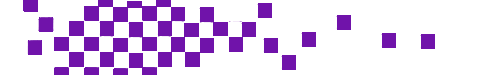
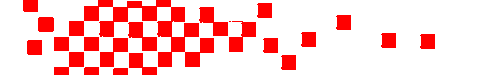
User themes

diff --git a/src/index.js b/src/index.js
@@ -1,4 +1,4 @@
-import React from "react";
+import React, { useEffect } from "react";
 import ReactDOM from "react-dom/client";
 import "./index.css";
 import {
@@ -14,8 +14,95 @@ import {
 } from "./containers";
 import Root from "./containers/Root";
 import { BrowserRouter, Routes, Route, Navigate } from "react-router-dom";
+import LoginMan from "./login_manager";
 
 export default function App() {
+
+  useEffect(() => {
+    (async () => {
+      function rgb2hsv(r, g, b) {
+        let v = Math.max(r, g, b), c = v - Math.min(r, g, b);
+        let h = c && ((v == r) ? (g - b) / c : ((v == g) ? 2 + (b - r) / c : 4 + (r - g) / c));
+        return [60 * (h < 0 ? h + 6 : h), v && c / v, v];
+      }
+
+      function rgb2hex(str) {
+        let r = 0
+        let g = 0
+        let b = 0
+        let a = 0
+
+        if (str.includes("rgba")) {
+          str = str.substr(5, str.length - 6)
+
+          const arr = str.split(", ")
+          r = parseInt(arr[0])
+          g = parseInt(arr[1])
+          b = parseInt(arr[2])
+          a = parseInt(arr[3])
+        } else if (str.includes("rgb")) {
+          str = str.substr(4, str.length - 5)
+
+          const arr = str.split(", ")
+          r = parseInt(arr[0])
+          g = parseInt(arr[1])
+          b = parseInt(arr[2])
+          a = 255
+        } else {
+          return "#00000000"
+        }
+
+        return "#" + (r < 16 ? "0" : "") + r.toString(16) + (g < 16 ? "0" : "") + g.toString(16) + (b < 16 ? "0" : "") + b.toString(16) + (a < 16 ? "0" : "") + a.toString(16)
+      }
+
+      function ChangeMenubarImg(FgColor) {
+        let r = parseInt(FgColor.substr(1, 2), 16)
+        let g = parseInt(FgColor.substr(3, 2), 16)
+        let b = parseInt(FgColor.substr(5, 2), 16)
+
+        let hsv = rgb2hsv(r / 255, g / 255, b / 255)
+        document.querySelector("#HeaderContent > img").style.filter = "hue-rotate(" + hsv[0] + "deg) brightness(" + hsv[1] * 100 + "%) saturate(" + hsv[2] * 100 + "%)"
+      }
+
+      function ChangeColors(orginal, new_color) {
+        let elems = document.querySelectorAll("*")
+
+        for (let elem of elems) {
+          if (rgb2hex(window.getComputedStyle(elem).color) == orginal) {
+            elem.style.color = new_color
+          }
+
+          if (rgb2hex(window.getComputedStyle(elem).backgroundColor) == orginal) {
+            elem.style.backgroundColor = new_color
+          }
+
+          if (rgb2hex(window.getComputedStyle(elem).borderColor) == orginal) {
+            elem.style.borderColor = new_color
+          }
+        }
+      }
+
+      if (LoginMan.LoggedIn()) {
+        const theme = await LoginMan.getTheme();
+        ChangeMenubarImg(theme.FgColor)
+        ChangeColors("#011e2dff", theme.BaseColor)
+        ChangeColors("#444444ff", theme.BgColor)
+        ChangeColors("#333333ff", theme.BgColorDark)
+        ChangeColors("#222233ff", theme.BgColorTheme)
+        ChangeColors("#33333eff", theme.BgColorTilted)
+        ChangeColors("#2e2e6555", theme.BtnHoverColor)
+        ChangeColors("#f4f4ffff", theme.BtnHoverTextColor)
+        ChangeColors("#a334e8ff", theme.FgColor)
+        ChangeColors("#630f78ff", theme.FgColorDark)
+        ChangeColors("#ffffffff", theme.TextColor)
+        ChangeColors("#f5f5f5ff", theme.TextColorDark)
+        ChangeColors("#add8e6ff", theme.TextColorTilted)
+      } else {
+        ChangeMenubarImg("#a334e8ff")
+      }
+    })()
+  }, [])
+
   return (
     <BrowserRouter>
       <Routes>

diff --git a/src/login_manager.js b/src/login_manager.js
@@ -1,4 +1,4 @@
-import { LoginUser, CreateUser, LogoutUser, GetUserInfo, GetWatchlist, AddToWatchlist, RemoveFromWatchlist, ReactToChatMessage, WriteChat, DelChat, GetUserReactions } from "./db_module";
+import { LoginUser, CreateUser, LogoutUser, GetUserInfo, GetWatchlist, AddToWatchlist, RemoveFromWatchlist, ReactToChatMessage, WriteChat, DelChat, GetUserReactions, GetUserTheme } from "./db_module";
 
 function delay(time) {
   return new Promise((resolve) => setTimeout(resolve, time));
@@ -36,6 +36,10 @@ class LoginManager {
 
   async getWatchlist() {
     return (await GetWatchlist(this.UserID(), this.Token())).json();
+  }
+
+  async getTheme() {
+    return (await GetUserTheme(this.UserID(), this.Token())).json();
   }
 
   async addToWatchlist(AnimeID) {

diff --git a/src/containers/AnimeInfo/style.scss b/src/containers/AnimeInfo/style.scss
@@ -17,7 +17,7 @@
     display: flex;
     flex-direction: column;
     width: 40%;
-    background-color: #33333e;
+    background-color: $background-tilted-color;
 }
 
 #AnimeProperties {
@@ -146,7 +146,7 @@
     word-break: break-all;
     overflow: hidden;
     hyphens: auto;
-    background-color: #33333e;
+    background-color: $background-tilted-color;
 }
 
 .RelationEntry:hover {
@@ -165,14 +165,14 @@
 
 #ChatDiv{
     background-color: black;
-    color: white;
+    color: $text-color;
     display: flex;
     flex-direction: column;
     padding-left: 50px;
 }
 
 #ChatDiv > h2{
-    border-bottom: 2px solid white;
+    border-bottom: 2px solid $text-color;
 }
 
 #ChatDiv{

diff --git a/src/styles/colors.scss b/src/styles/colors.scss
@@ -1,10 +1,12 @@
-$base-color: #011e2d;
-$background-color: #444444;
-$background-color-dark: #333333;
-$background-color-theme: #222233;
-$background-tilted-color:#55555555;
+$base-color: #011e2dff;
+$background-color: #444444ff;
+$background-color-dark: #333333ff;
+$background-color-theme: #222233ff;
+$background-tilted-color:#33333eff;
 $btn-hover-color: #2e2e6555;
-$btn-hover-text-color: #f4f4ff;
-$foreground-color: #A334E8;
-$text-color: white;
-$text-tilted-color: lightblue;
+$btn-hover-text-color: #f4f4ffff;
+$foreground-color: #a334e8ff;
+$foreground-color-dark: #630f78ff;
+$text-color: #ffffffff;
+$text-color-dark: #f5f5f5ff;
+$text-tilted-color: #add8e6ff;

diff --git a/src/widgets/Menubar/index.js b/src/widgets/Menubar/index.js
@@ -4,6 +4,7 @@ import redirect from "../../redirect.js";
 import { GetAnimeRange } from "../../db_module.js";
 import "./style.scss";
 import UserDefaultSVG from "./userdefault.js";
+import HeaderBg from "./headerbg.png"
 
 function UserInfo() {
   const [userInfo, setUserInfo] = useState(null);
@@ -100,6 +101,7 @@ function Menubar() {
     <div id="MenuBar">
       <LoginBtn />
       <div id="HeaderContent">
+        <img src={HeaderBg}/>
         <h1 id="aaaHeader">AdamAnimeArray</h1>
         <form id="Search">
           <input type="submit" id="Searchbtn" value=""></input>

diff --git a/src/widgets/TabUnit/style.scss b/src/widgets/TabUnit/style.scss
@@ -13,7 +13,7 @@
     display: flex;
     justify-content: center;
     align-items: center;
-    color: whitesmoke;
+    color: $text-color-dark;
     width: 40px;
     height: 40px;
     margin-left: 5px;
@@ -39,7 +39,7 @@
 
 .TabUnitDiv label{
     position: absolute;
-    color: white;
+    color: $text-color;
     font-size: 1.5em;
     margin-left: 75%;
     display: flex;
@@ -53,5 +53,5 @@
     margin-left: 20px;
     background-color: $background-tilted-color;
     border: 2px solid $background-color-dark;
-    color: white;
+    color: $text-color-dark;
 }

diff --git a/src/widgets/Menubar/style.scss b/src/widgets/Menubar/style.scss
@@ -4,7 +4,7 @@
   display: flex;
   flex-direction: column;
   height: 125px;
-  color: whitesmoke;
+  color: $text-color-dark;
   margin-left: 20px;
   margin-right: 20px;
 }
@@ -16,13 +16,16 @@
   align-items: center;
   height: 75px;
   background-color: $base-color;
-  background-image: url("headerbg.png");
   background-repeat: no-repeat;
+}
+
+#HeaderContent > img{
+  max-width: max-content;
 }
 
 #aaaHeader {
   color: $text-color;
-  text-align: right;
+  text-align: left;
   width: 40%;
 }
 

diff --git a/src/containers/Search/style.scss b/src/containers/Search/style.scss
@@ -21,7 +21,7 @@ body {
   padding-bottom: 5px;
   border: 2px solid $foreground-color;
   background-color: $background-color;
-  color: white;
+  color: $text-color;
   cursor: pointer;
 }
 
@@ -100,7 +100,7 @@ body {
   flex-direction: column;
   width: 40%;
   min-height: 100%;
-  background-color: #33333e;
+  background-color: $background-tilted-color;
   padding: 10px;
   color: $text-tilted-color;
 }

diff --git a/src/containers/AnimePlayer/style.scss b/src/containers/AnimePlayer/style.scss
@@ -2,7 +2,7 @@
 @import 'src/styles/select';
 
 #AnimeInfoHeaderDiv {
-    background-color: #630f78;
+    background-color: $foreground-color-dark;
     color: $text-color;
     margin: 0px;
     padding-left: 50px;
@@ -232,7 +232,7 @@ a {
 }
 
 #SongContainer a {
-    color: #630f78;
+    color: $foreground-color-dark;
 }
 
 #SongContainer th {

diff --git a/src/db_module.js b/src/db_module.js
@@ -324,3 +324,12 @@ export function GetUserReactions(id, token){
     
     return FetchToApiPost(`/auth/comment/getreaction`, req);
 }
+
+export function GetUserTheme(id, token){
+    let req = {
+        UserID: id,
+        Token: token
+    };
+    
+    return FetchToApiPost(`/auth/theme`, req);
+}

diff --git a/src/widgets/AnimePoster/style.scss b/src/widgets/AnimePoster/style.scss
@@ -13,7 +13,7 @@
     justify-content: center;
     height: 40px;
     width: 100%;
-    color: whitesmoke;
+    color: $text-color-dark;
     background-color: $background-color-dark;
     font-size: small;
     margin-bottom: 10px;

diff --git a/src/widgets/AnimePanel/style.scss b/src/widgets/AnimePanel/style.scss
@@ -17,7 +17,7 @@
     justify-content: flex-start;
     height: 40px;
     width: 100%;
-    color: whitesmoke;
+    color: $text-color-dark;
     background-color: $background-color-dark;
     font-size: small;
 }
